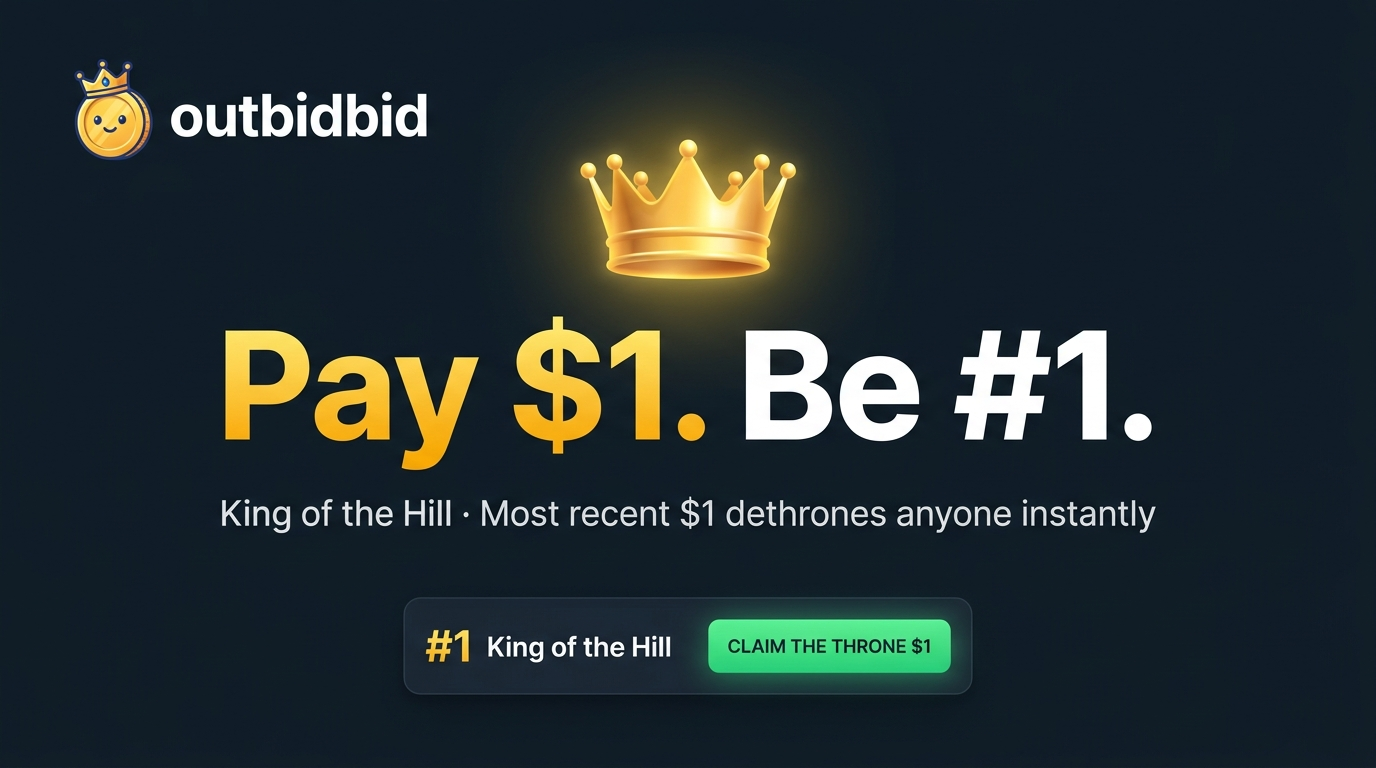
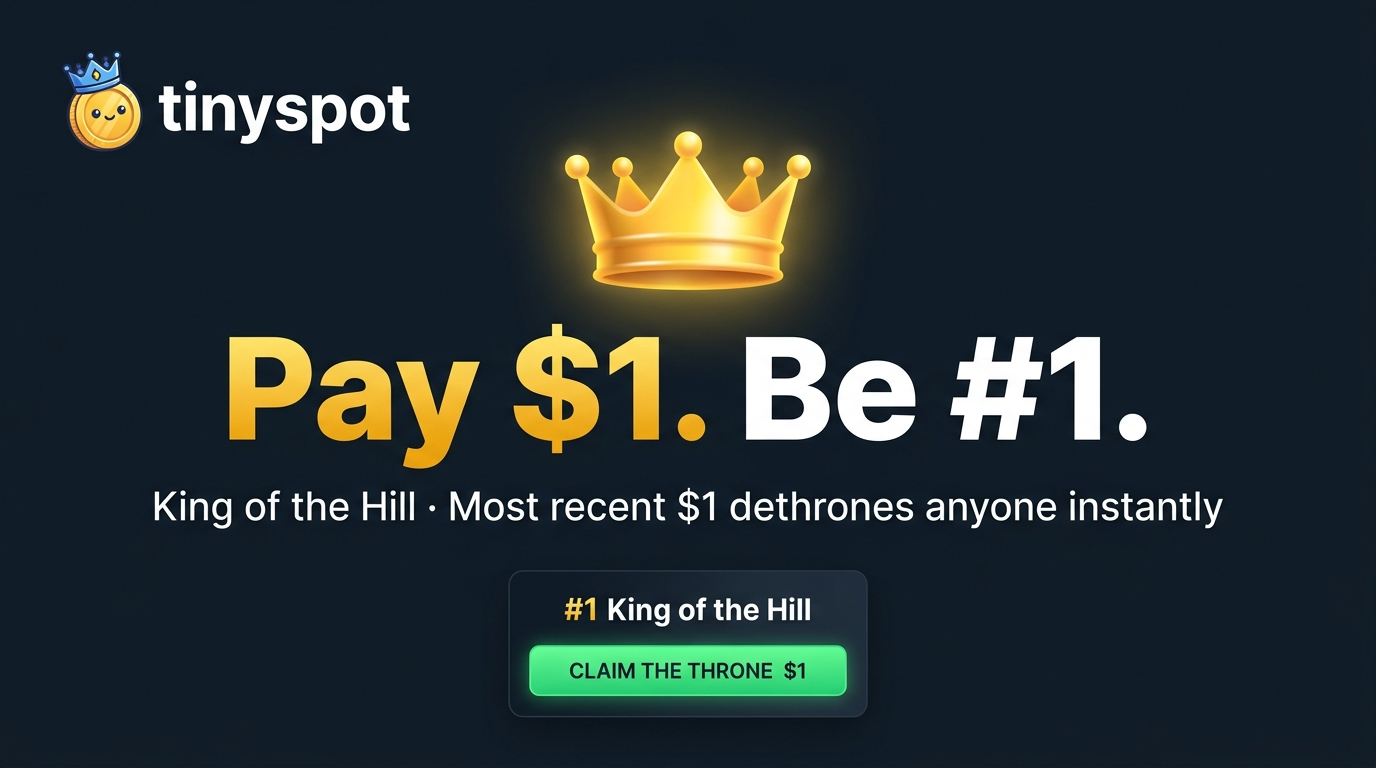
feat: rebrand to tinyspot.lol across Cloudflare, Dodo, SEO, and UI

diff --git a/src/worker.js b/src/worker.js
@@ -1,4 +1,4 @@
-// Outbidbid — King of the Hill.
+// Tinyspot — King of the Hill.
 // Pay $1. Be #1. Get dethroned any second.
 // Cloudflare Worker + D1. Payments via Dodo Payments SDK, Stripe, and NOWPayments.
 
@@ -175,7 +175,7 @@ async function createStripeCheckout(env, { requestOrigin, bidId }) {
   p.set('line_items[0][quantity]', '1');
   p.set('line_items[0][price_data][currency]', 'usd');
   p.set('line_items[0][price_data][unit_amount]', String(BID_AMOUNT_CENTS));
-  p.set('line_items[0][price_data][product_data][name]', 'Outbidbid — Claim the Throne');
+  p.set('line_items[0][price_data][product_data][name]', 'Tinyspot — Claim the Throne');
   p.set('line_items[0][price_data][product_data][description]', 'Pay $1 to be #1. Get dethroned any second.');
   const res = await fetch('https://api.stripe.com/v1/checkout/sessions', {
     method: 'POST',
@@ -230,7 +230,7 @@ async function createNpInvoice(env, { requestOrigin, bidId }) {
       price_amount: BID_AMOUNT_CENTS / 100,
       price_currency: 'usd',
       order_id: `bid_${bidId}`,
-      order_description: 'Outbidbid — Claim the Throne for $1',
+      order_description: 'Tinyspot — Claim the Throne for $1',
       success_url: `${requestOrigin}/?paid=1&bid_id=${bidId}`,
       cancel_url: `${requestOrigin}/`,
       ipn_callback_url: `${requestOrigin}/api/nowpayments/ipn`,
@@ -282,7 +282,7 @@ const dodoClient = (env) => new DodoPayments({ bearerToken: env.DODO_API_KEY, en
 async function createDodoCheckout(env, { requestOrigin, bidId }) {
   try {
     const productId = env.DODO_PRODUCT_ID || await getDodoProductForAmount(env, BID_AMOUNT_CENTS);
-    const base = env.DODO_BASE || 'https://test.dodopayments.com';
+    const base = env.DODO_BASE || 'https://live.dodopayments.com';
     const res = await fetch(`${base}/checkouts`, {
       method: 'POST',
       headers: dodoHeaders(env),
@@ -295,7 +295,7 @@ async function createDodoCheckout(env, { requestOrigin, bidId }) {
     const session = await res.json().catch(() => ({}));
     if (!res.ok || !session.checkout_url || !session.session_id) {
       console.error('Dodo checkout failed:', res.status, session);
-      return { error: 'dodo_error', detail: `HTTP ${res.status}: ${JSON.stringify(session)}` };
+      return { error: 'dodo_error', detail: session?.message || session?.error || 'dodo_checkout_failed' };
     }
     await env.DB.prepare("UPDATE bids SET provider = 'dodo', provider_ref = ? WHERE id = ?").bind(session.session_id, bidId).run();
     return { url: session.checkout_url };
@@ -321,7 +321,7 @@ async function getDodoProductForAmount(env, amountCents) {
   } catch { /* fall through */ }
   const createRes = await fetch(`${env.DODO_BASE}/products`, {
     method: 'POST', headers: dodoHeaders(env),
-    body: JSON.stringify({ name: 'Outbidbid — Claim the Throne', description: 'Pay $1 to be #1 on Outbidbid. Get dethroned any second.', tax_category: 'digital_products', price: { type: 'one_time_price', currency: 'USD', price: amountCents, discount: 0 } }),
+    body: JSON.stringify({ name: 'Tinyspot — Claim the Throne', description: 'Pay $1 to be #1 on Tinyspot. Get dethroned any second.', tax_category: 'digital_products', price: { type: 'one_time_price', currency: 'USD', price: amountCents, discount: 0 } }),
   });
   const product = await createRes.json().catch(() => ({}));
   if (!createRes.ok || !product.product_id) throw new Error(product?.error?.message ?? 'dodo_product_create_failed');
@@ -525,11 +525,11 @@ async function handleAdmin(request, env) {
       if (!working) return json({ ok: false, error: 'api_key_rejected_on_both_environments' }, 502);
       const listRes = await fetch(`${working.base}/products?limit=100`, { headers: dodoHeaders(env) });
       const list = await listRes.json().catch(() => ({ items: [] }));
-      const existing = (list.items ?? list ?? []).find?.((p) => p.name === 'Outbidbid — Claim the Throne' && p.price?.price === 100);
+      const existing = (list.items ?? list ?? []).find?.((p) => p.name === 'Tinyspot — Claim the Throne' && p.price?.price === 100);
       if (existing) return json({ ok: true, base: working.base, product_id: existing.product_id, reused: true });
       const createRes = await fetch(`${working.base}/products`, {
         method: 'POST', headers: dodoHeaders(env),
-        body: JSON.stringify({ name: 'Outbidbid — Claim the Throne', description: 'Pay $1 to be #1. Get dethroned any second.', tax_category: 'digital_products', price: { type: 'one_time_price', currency: 'USD', price: 100, discount: 0 } }),
+        body: JSON.stringify({ name: 'Tinyspot — Claim the Throne', description: 'Pay $1 to be #1. Get dethroned any second.', tax_category: 'digital_products', price: { type: 'one_time_price', currency: 'USD', price: 100, discount: 0 } }),
       });
       const product = await createRes.json().catch(() => ({}));
       if (!createRes.ok || !product.product_id) return json({ ok: false, error: 'product_create_failed', detail: product?.error?.message ?? product }, 502);
@@ -540,7 +540,7 @@ async function handleAdmin(request, env) {
       const origin = new URL(request.url).origin;
       const res = await fetch(`${env.DODO_BASE}/webhooks`, {
         method: 'POST', headers: dodoHeaders(env),
-        body: JSON.stringify({ url: `${origin}/api/dodo/webhook`, description: 'outbidbid payment settlement', filter_types: ['payment.succeeded'] }),
+        body: JSON.stringify({ url: `${origin}/api/dodo/webhook`, description: 'tinyspot payment settlement', filter_types: ['payment.succeeded'] }),
       });
       const wh = await res.json().catch(() => ({}));
       if (!res.ok) return json({ ok: false, error: 'webhook_create_failed', detail: wh?.error?.message ?? wh }, 502);
@@ -551,7 +551,7 @@ async function handleAdmin(request, env) {
       const ins = await env.DB.prepare(
         `INSERT INTO bids (payer_name, payer_url, payer_tagline, amount_cents, provider, status, created_at, paid_at)
          VALUES (?, ?, ?, ?, 'demo', 'paid', ?, ?)`
-      ).bind('outbidbid', 'https://outbidbid.lol', 'The king of the hill game. Pay $1, be #1.', 100, now() - 3600, now() - 3600).run();
+      ).bind('tinyspot', 'https://tinyspot.lol', 'The king of the hill game. Pay $1, be #1.', 100, now() - 3600, now() - 3600).run();
       return json({ ok: true, bid_id: ins.meta.last_row_id });
     }
     default:

diff --git a/public/index.html b/public/index.html
@@ -3,26 +3,26 @@
 <head>
 <meta charset="UTF-8">
 <meta name="viewport" content="width=device-width, initial-scale=1.0, viewport-fit=cover">
-<title>Outbidbid — Pay $1. Be #1.</title>
-<meta name="description" content="Pay $1. Be #1. King of the hill — most recent $1 bidder dethrones anyone instantly.">
+<title>Tinyspot — Pay $1. Be #1.</title>
+<meta name="description" content="Pay $1. Be #1. King of the hill — most recent $1 spot claim dethrones anyone instantly.">
 
 <meta property="og:type" content="website">
-<meta property="og:site_name" content="Outbidbid">
-<meta property="og:title" content="Outbidbid — Pay $1. Be #1.">
-<meta property="og:description" content="Pay $1. Be #1. King of the hill — most recent $1 bidder dethrones anyone instantly.">
-<meta property="og:url" content="https://outbidbid.lol/">
-<meta property="og:image" content="https://outbidbid.lol/og-king.png?v=5">
-<meta property="og:image:secure_url" content="https://outbidbid.lol/og-king.png?v=5">
+<meta property="og:site_name" content="Tinyspot">
+<meta property="og:title" content="Tinyspot — Pay $1. Be #1.">
+<meta property="og:description" content="Pay $1. Be #1. King of the hill — most recent $1 spot claim dethrones anyone instantly.">
+<meta property="og:url" content="https://tinyspot.lol/">
+<meta property="og:image" content="https://tinyspot.lol/og-tinyspot.png?v=6">
+<meta property="og:image:secure_url" content="https://tinyspot.lol/og-tinyspot.png?v=6">
 <meta property="og:image:type" content="image/png">
-<meta property="og:image:alt" content="Outbidbid — Pay $1 to be #1">
+<meta property="og:image:alt" content="Tinyspot — Pay $1 to be #1">
 <meta property="og:image:width" content="1200">
 <meta property="og:image:height" content="630">
 
 <meta name="twitter:card" content="summary_large_image">
-<meta name="twitter:site" content="@outbidbid">
-<meta name="twitter:title" content="Outbidbid — Pay $1. Be #1.">
-<meta name="twitter:description" content="Pay $1. Be #1. King of the hill — most recent $1 bidder dethrones anyone instantly.">
-<meta name="twitter:image" content="https://outbidbid.lol/og-king.png?v=5">
+<meta name="twitter:site" content="@tinyspot">
+<meta name="twitter:title" content="Tinyspot — Pay $1. Be #1.">
+<meta name="twitter:description" content="Pay $1. Be #1. King of the hill — most recent $1 spot claim dethrones anyone instantly.">
+<meta name="twitter:image" content="https://tinyspot.lol/og-tinyspot.png?v=6">
 
 <link rel="preconnect" href="https://fonts.googleapis.com">
 <link rel="preconnect" href="https://fonts.gstatic.com" crossorigin>
@@ -331,8 +331,8 @@
 <!-- HEADER -->
 <header class="header">
   <a class="logo" href="/">
-    <img src="/logo.png" alt="Outbidbid logo">
-    <span class="logo-text">outbidbid</span>
+    <img src="/logo.png" alt="Tinyspot logo">
+    <span class="logo-text">tinyspot</span>
   </a>
   <div class="header-stats">
     <button class="stat-pill info-btn" onclick="openInfoModal()" aria-label="Info">
